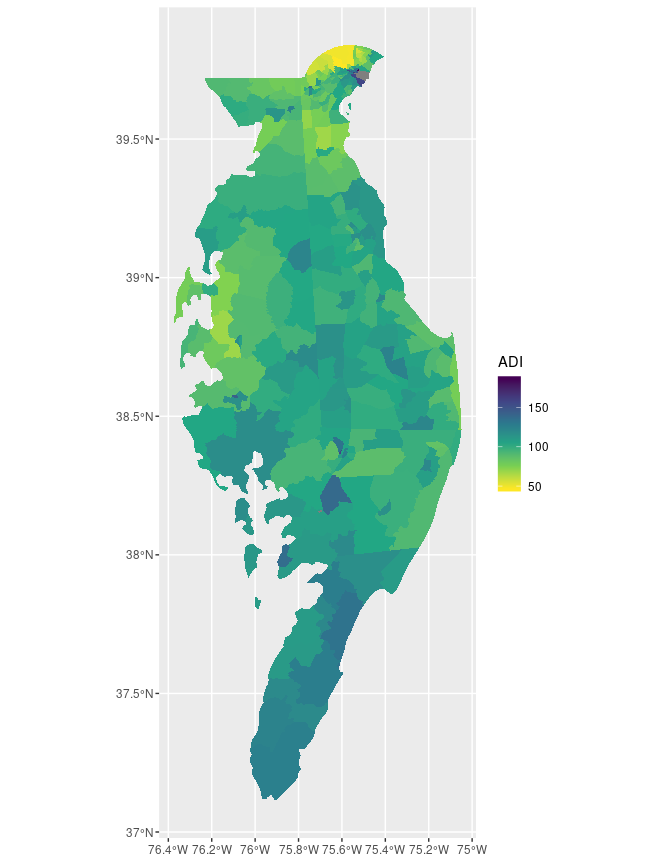
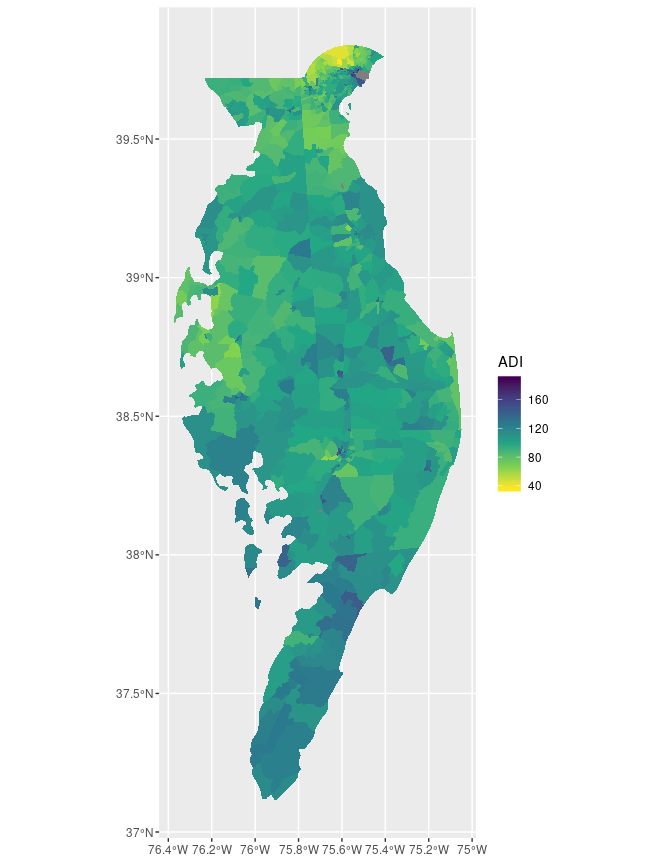
Require tidycensus 0.9.2

diff --git a/README.md b/README.md
@@ -198,7 +198,8 @@ counties are erratic indeed.
 The aforementioned `geoid` parameter allows the user to mix different
 levels of geography when specifying a reference population. Employing
 2000 decennial census data, the code below stores the ADIs of the census
-tracts in every county entirely or partially on the Delmarva peninsula:
+block groups in every county entirely or partially on the Delmarva
+peninsula:
 
 ``` r
 delmarva_geoids <-
@@ -211,7 +212,7 @@ delmarva_geoids <-
 
 delmarva <-
   get_adi(
-    geography = "tract",
+    geography = "block group",
     geoid = delmarva_geoids, 
     dataset = "decennial",
     year = 2000,
@@ -244,9 +245,10 @@ areas lighter in color than low-ADI areas, which is counterintuitive.
 While not necessarily *incorrect*, this can be “fixed” using other
 `ggplot` features, such as `scale_fill_viridis_c(direction = -1)`.
 
-Furthermore, the gray borders between census tracts are a bit thick and
-in many cases totally obscure some of the smaller tracts. Borders can be
-removed by setting `lwd = 0` within the `geom_sf()` function.
+Furthermore, the gray borders between census block groups are a bit
+thick and in many cases totally obscure some of the smaller block
+groups. Borders can be removed by setting `lwd = 0` within the
+`geom_sf()` function.
 
 ``` r
 delmarva %>%

diff --git a/NEWS.md b/NEWS.md
@@ -1,9 +1,12 @@
 
 # sociome 1.3.1
 
+## Major updates
+- Currently, the latest CRAN version of `tidycensus`, 0.9.5, is incompatible with `sociome` due to a `tidycensus` bug. This bug is fixed in version 0.9.6, which is available on Github, but in order to accommodate new users of `sociome`, the older CRAN version, 0.9.2, will be required instead. This will be changed once the latest version of `tidycensus` becomes available on CRAN.
+
 ## Minor updates
 
-- Removed reference to now-nonexistent `tigris-package` help page to avoid warning.
+- Removed reference to now-nonexistent `tigris-package` help page to avoid CRAN warning.
 
 # sociome 1.3.0
 
